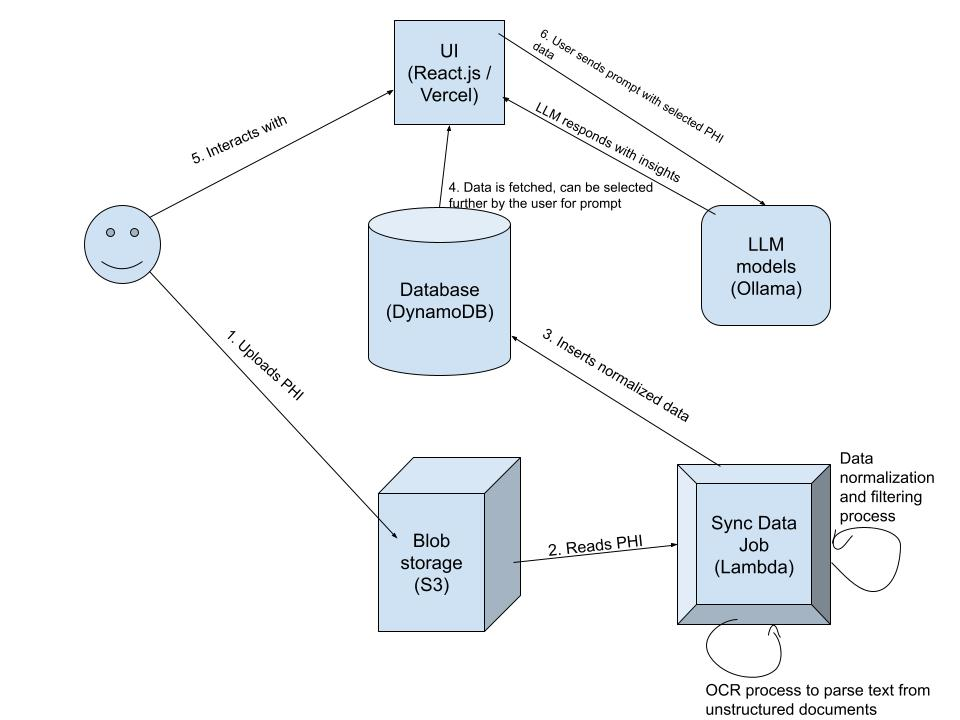
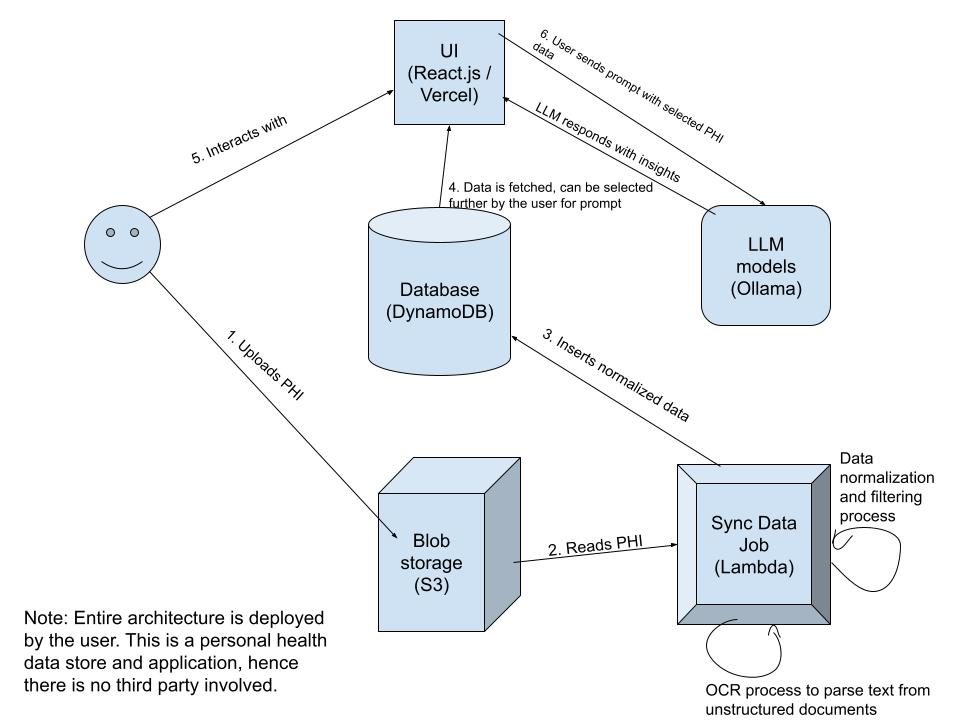
ok

Changed region(s): [[0.0312, 0.825, 0.3438, 0.9778]]

diff --git a/README.md b/README.md
@@ -1,3 +1,6 @@
+An application to store health records and share it with [Ollama](https://ollama.com/) models. Try out the demo version here: [https://minimal-llm-ui-one.vercel.app](https://minimal-llm-ui-one.vercel.app)
+
+
 ## Demo Setup
 
 1. Visit https://ollama.com/download and download
@@ -9,34 +12,31 @@ ollama pull medllama2
 ollama pull llama3
 ```
 4. Export this environment variable to allow cross origin requests to ollama:
+```bash
+export OLLAMA_ORIGINS="https://minimal-llm-ui-one.vercel.app/"
 ```
-export OLLAMA_ORIGINS="https://minimal-llm-ui-git-main-rizvinaved1997s-projects.vercel.app"
-```
-4. Serve the model from your localhost:
-```
+4. Serve the model from your localhost, will run on 11434 by default:
+```bash
 ollama serve
 ```
-5. Now you should be able to access the models in the UI [https://minimal-llm-ui-git-main-rizvinaved1997s-projects.vercel.app](https://minimal-llm-ui-git-main-rizvinaved1997s-projects.vercel.app). Refresh if there is any issue. The UI will also show data from the DynamoDB.
+5. Now you should be able to access the models in the [UI](https://minimal-llm-ui-one.vercel.app/). Refresh if there is any issue. The UI will also show data from the personal health data store.
 
 
-To kill the process at any time:
-```
-lsof -i ::11434
-```
+## Personal Deployment
 
-
-## Personal deployment
-
-You can deploy a Cloudformation stack to your account. You will be paying for hosting the PHI in DynamoDB and S3. Just make sure that the AWS credentials are set in your environment (AWS_ACCESS_KEY_ID, AWS_SECRET_ACCESS_KEY and AWS_REGION). You can build and deploy the application using the provided make target:
-```
+You can deploy a Cloudformation stack to an AWS account. You will be paying for hosting the PHI in DynamoDB and S3. Make sure that the AWS credentials are set in your environment (AWS_ACCESS_KEY_ID, AWS_SECRET_ACCESS_KEY and AWS_REGION). You can build and deploy the application using the provided make target:
+```bash
 make deploy
 ```
 
-Add your raw health records to phi-raw-records. Upload a directory (which contains the images of the document), it should have a unique name, as shown in the example. NOTE: do not keep the file with same name but change its contents, the contents will not get modified; instead create a new file with a different name and the updated contents.
+Add your raw health records to phi-raw-records. Upload a directory (which contains the images of the document), it should have a unique name, as shown in the example. NOTE: Since the DynamoDB table for the EHR data has uses the name of the directory for partition key of the parsed document, do not keep the directory with same name and change its content since the contents will not get modified; instead create a new directory with a different name and the updated content.
 
-Add more phi-raw-records to the S3 bucket (using the S3 upload CLI/API). The folder here serves to demonstrates example records, and get uploaded to the bucked at deploy-time.
+Add more phi-raw-records to the S3 bucket (using the S3 upload CLI/API). The folder here serves to demonstrates example records that get uploaded to the bucked at deploy-time.
 
+
+```bash
 aws s3 cp 1-dental-visit/ s3://ollama-llama3-stack-phi-raw-records/1-dental-visit/ --recursive
+```
 
 If you upload directly like this you need to make sure file is in JPEG format, since Tesseract (OCR software) only recognizes images. Use a tool like this to achieve this: https://smallpdf.com/pdf-to-jpg. It will convert one page to a single image. You can delete pages which contain data that is irrelevant for the model, eg: the most important page would likely be the vitals, results and clinic notes therefore other pages can be removed from such patient visit records.
 
